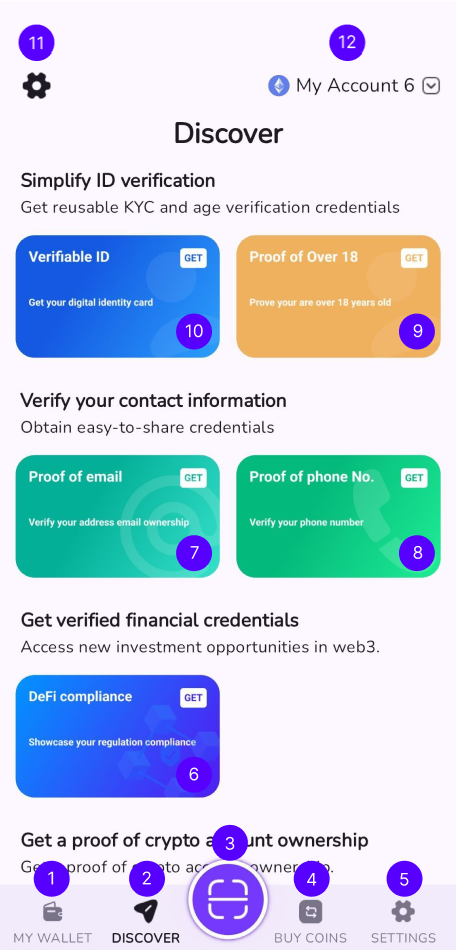
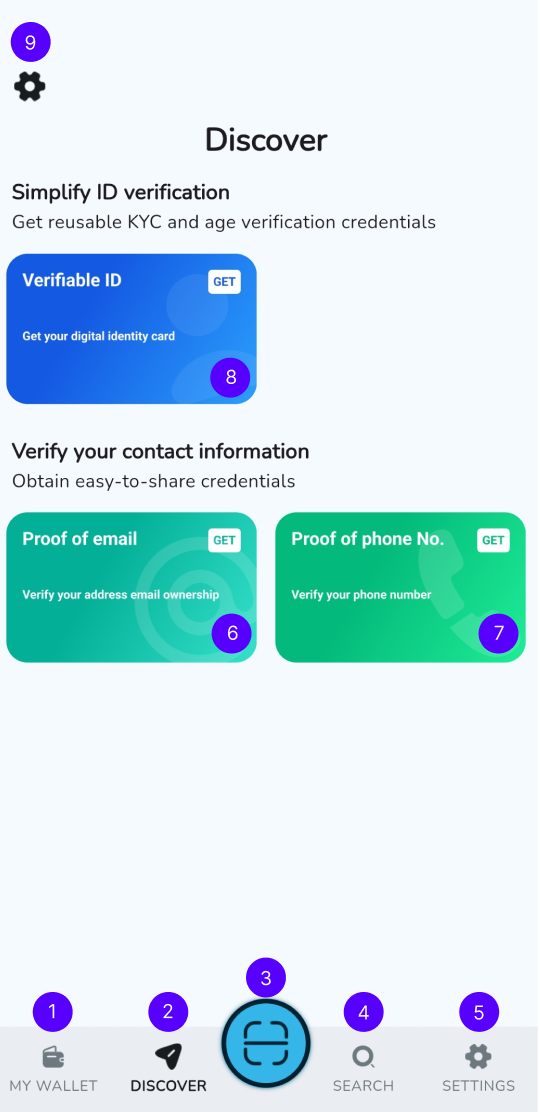
add altme + talo part for screen

diff --git a/src/css/custom.css b/src/css/custom.css
@@ -28,3 +28,146 @@
   --ifm-color-primary-lightest: #4fddbf;
   --docusaurus-highlighted-code-line-bg: rgba(0, 0, 0, 0.3);
 }
+
+/* Custom responsive styles for wallet screens */
+.responsive-container {
+  display: flex;
+  align-items: center;
+  margin-bottom: 20px;
+  /* flex-direction: row-reverse; */
+}
+
+/* DIsplay screen */
+
+.responsive-image-display {
+  flex: 0 0 30%;
+  margin-left: 20px;
+  margin-bottom: 80px;
+}
+
+.responsive-text-display {
+  flex: 0 0 70%;
+  margin-left: 20px;
+}
+
+/* Mobile: 50% image, 50% text */
+@media (max-width: 768px) {
+  .responsive-image-display {
+    flex: 0 0 60%;
+    margin-left: -5px;
+    margin-bottom: 900px;
+  }
+
+  .responsive-text-display {
+    flex: 0 0 40%;
+    margin-left: 10px;
+  }
+}
+
+/* Settings screen */
+
+.responsive-image-setting {
+  flex: 0 0 30%;
+  margin-left: 20px;
+  margin-bottom: -55px;
+}
+
+.responsive-text-setting {
+  flex: 0 0 70%;
+  margin-left: 20px;
+}
+
+/* Mobile: 50% image, 50% text */
+@media (max-width: 768px) {
+  .responsive-image-setting {
+    flex: 0 0 60%;
+    margin-left: -5px;
+    margin-bottom: 1340px;
+  }
+
+  .responsive-text-setting {
+    flex: 0 0 40%;
+    margin-left: 10px;
+  }
+}
+
+/* Wallet screen */
+
+.responsive-image-wallet {
+  flex: 0 0 30%;
+  /* margin-left: 20px; */
+  margin-bottom: 170px;
+}
+
+.responsive-text-wallet {
+  flex: 0 0 70%;
+  margin-left: 20px;
+}
+
+/* Mobile: 50% image, 50% text */
+@media (max-width: 768px) {
+  .responsive-image-wallet {
+    flex: 0 0 60%;
+    margin-left: -5px;
+    margin-bottom: 1600px;
+  }
+
+  .responsive-text-wallet {
+    flex: 0 0 40%;
+    margin-left: 7px;
+  }
+}
+
+/* Talao discover  */
+
+.responsive-image-display-talao {
+  flex: 0 0 30%;
+  margin-left: 20px;
+  margin-bottom: -20px;
+}
+
+.responsive-text-display-talao {
+  flex: 0 0 70%;
+  margin-left: 20px;
+}
+
+/* Mobile: 50% image, 50% text */
+@media (max-width: 768px) {
+  .responsive-image-display-talao {
+    flex: 0 0 60%;
+    margin-left: -5px;
+    margin-bottom: 650px;
+  }
+
+  .responsive-text-display-talao {
+    flex: 0 0 40%;
+    margin-left: 10px;
+  }
+}
+
+/* Talao wallet  */
+
+.responsive-image-wallet-talao {
+  flex: 0 0 30%;
+  margin-left: 20px;
+  margin-bottom: -20px;
+}
+
+.responsive-text-wallet-talao {
+  flex: 0 0 70%;
+  margin-left: 20px;
+}
+
+/* Mobile: 50% image, 50% text */
+@media (max-width: 768px) {
+  .responsive-image-wallet-talao {
+    flex: 0 0 60%;
+    margin-left: -5px;
+    margin-bottom: 750px;
+  }
+
+  .responsive-text-wallet-talao {
+    flex: 0 0 40%;
+    margin-left: 10px;
+  }
+}

diff --git a/sidebars.ts b/sidebars.ts
@@ -22,9 +22,12 @@ const sidebars: SidebarsConfig = {
           type: 'category',
           label: 'Wallet Screens',
           items: [
-            'wallet/wallet-screen/wallet-screen',
-            'wallet/wallet-screen/display-screen',
-            'wallet/wallet-screen/settings-menu-screen',
+            'wallet/wallet-screen/altme-wallet-screen', // add nft + coins
+            'wallet/wallet-screen/altme-display-screen',
+            'wallet/wallet-screen/altme-settings-menu-screen', 
+            'wallet/wallet-screen/talao-wallet-screen',
+            'wallet/wallet-screen/talao-display-screen',
+            'wallet/wallet-screen/talao-settings-menu-screen',
           ],
         },
         'wallet/wallet-profiles',

diff --git a/docs/wallet/wallet-screen/altme-settings-menu-screen.md b/docs/wallet/wallet-screen/altme-settings-menu-screen.md
@@ -1,22 +1,22 @@
-# Settings
+# Altme - Settings
 
 Updated the 14th of October 2024.
 
-<div style={{ display: 'flex', alignItems: 'stretch', marginBottom: '20px' }}>
-  <div style={{ flex: '0 0 30%' }}>
-    <img src="/img/ssi_screen/talao_settings.png" alt="Talao Settings Screen" style={{ width: '100%', marginLeft: '50px', height: 'auto' }} />
+<div class="responsive-container">
+  <div class="responsive-image-setting">
+    <img src="/img/ssi_screen/altme_settings.png" alt="Talao Settings Screen" style={{ width: '100%', height: 'auto' }} />
   </div>
-  <div style={{ flex: '0 0 70%', height: '100%', marginLeft: '150px' }}>
+  <div class="responsive-text-setting">
     <p>This is the Settings menu of the wallet.</p>
     <ol>
       <li>Wallet Profiles: allows you to select one of the embedded ecosystem profiles.</li>
       <li>Wallet Security: allows you to change the PIN code, use biometrics, show the wallet recovery phrase, manage user consent, backup, and restore features.</li>
       <li>Wallet Settings: allows you to change the language and themes.</li>
-      <li>Self-Sovereign Identity: provides access to all DIDs, private keys, and OIDC4VC parameters for advanced users.</li>
+      <li>Blockchain Settings : allows you to manage accounts, connected dApps & Networks</li>
+      <li>Self-Sovereign identity (SSI) : allows you to manage your Decentralized ID, backup or rester credentials</li>
       <li>Developer Mode: allows advanced users to access raw data and protocol requests and responses.</li>
-      <li>Help Center: provides access to support chat, notifications, and email.</li>
+      <li>Help center: access to the help center and FAQs</li>
       <li>About: access the terms and conditions document.</li>
-      <li>Activity Log: displays all events such as issuances and credential presentations.</li>
       <li>Reset: resets the wallet, deleting all credentials and private keys with no option to undo if no backup is available.</li>
     </ol>
     <p>The menu may vary depending on the configuration of the wallet.</p>

diff --git a/docs/wallet/wallet-screen/talao-settings-menu-screen.md b/docs/wallet/wallet-screen/talao-settings-menu-screen.md
@@ -1,0 +1,24 @@
+# Talao - Settings
+
+Updated the 14th of October 2024.
+
+<div class="responsive-container">
+  <div class="responsive-image-setting">
+    <img src="/img/ssi_screen/talao_settings.png" alt="Talao Settings Screen" style={{ width: '100%', height: 'auto' }} />
+  </div>
+  <div class="responsive-text-setting">
+    <p>This is the Settings menu of the wallet.</p>
+    <ol>
+      <li>Wallet Profiles: allows you to select one of the embedded ecosystem profiles.</li>
+      <li>Wallet Security: allows you to change the PIN code, use biometrics, show the wallet recovery phrase, manage user consent, backup, and restore features.</li>
+      <li>Wallet Settings: allows you to change the language and themes.</li>
+      <li>Self-Sovereign Identity: provides access to all DIDs, private keys, and OIDC4VC parameters for advanced users.</li>
+      <li>Developer Mode: allows advanced users to access raw data and protocol requests and responses.</li>
+      <li>Help Center: provides access to support chat, notifications, and email.</li>
+      <li>About: access the terms and conditions document.</li>
+      <li>Activity Log: displays all events such as issuances and credential presentations.</li>
+      <li>Reset: resets the wallet, deleting all credentials and private keys with no option to undo if no backup is available.</li>
+    </ol>
+    <p>The menu may vary depending on the configuration of the wallet.</p>
+  </div>
+</div>

diff --git a/docs/wallet/wallet-screen/talao-wallet-screen.md b/docs/wallet/wallet-screen/talao-wallet-screen.md
@@ -1,0 +1,23 @@
+# Talao - My wallet
+
+Updated the 14th of October 2024.
+
+<div class="responsive-container">
+  <div class="responsive-image-wallet-talao">
+    <img src="/img/ssi_screen/talao_wallet.png" alt="Altme Wallet Main Screen" style={{ width: '100%', height: 'auto' }} />
+  </div>
+  <div class="responsive-text-wallet-talao">
+    <p>This is the main screen of the wallet where all verifiable credentials stored in the wallet are displayed.</p>
+    <ol>
+      <li>My Wallet: to access the main screen of the wallet (this screen) with all verifiable credentials represented as cards.</li>
+      <li>Discover: to access the issuer marketplace of the wallet to get all the issuer links.</li>
+      <li>Scan button.</li>
+      <li>Search: to search any cards from the discover</li>
+      <li>Settings: to access the settings menu.</li>
+      <li>Your contact information</li>
+      <li>Add cards: to access the issuer marketplace.</li>
+      <li>Add cards: to access the issuer marketplace.</li>
+      <li>Settings: to access the settings menu.</li>
+    </ol>
+  </div>
+</div>

diff --git a/docs/wallet/wallet-screen/talao-display-screen.md b/docs/wallet/wallet-screen/talao-display-screen.md
@@ -1,0 +1,24 @@
+# Talao - Discover
+
+Updated the 14th of October 2024.
+
+<div class="responsive-container">
+  <div class="responsive-image-wallet-talao">
+    <img src="/img/ssi_screen/talao_discover.png" alt="Talao Discover Screen" style={{ width: '100%', height: 'auto' }} />
+  </div>
+  <div class="responsive-text-wallet-talao">
+    <p>This is the Discover screen of the wallet to access issuers.</p>
+    <ol>
+      <li>My Wallet: to access the main screen of the wallet with all verifiable credentials represented as cards.</li>
+      <li>Discover: to access the issuer marketplace of the wallet to get all the issuer links.</li>
+      <li>Scan: to open the wallet scanner.</li>
+      <li>Search: to search any cards from the discover</li>
+      <li>Settings: to access the settings menu.</li>
+      <li>Issuer links.</li>
+      <li>Issuer links.</li>
+      <li>Issuer links.</li>
+      <li>Settings: to access the settings menu.</li>
+    </ol>
+    <p>The issuer links depend on the configuration of the wallet.</p>
+  </div>
+</div>

diff --git a/docs/wallet/wallet-screen/altme-wallet-screen.md b/docs/wallet/wallet-screen/altme-wallet-screen.md
@@ -1,12 +1,12 @@
-# My wallet
+# Altme - My wallet
 
 Updated the 14th of October 2024.
 
-<div style={{ display: 'flex', alignItems: 'stretch', marginBottom: '20px' }}>
-  <div style={{ flex: '0 0 30%' }}>
-    <img src="/img/ssi_screen/altme_wallet.png" alt="Altme Wallet Main Screen" style={{ width: '100%', marginLeft: '50px', height: 'auto' }} />
+<div class="responsive-container">
+  <div class="responsive-image-wallet">
+    <img src="/img/ssi_screen/altme_wallet.png" alt="Altme Wallet Main Screen" style={{ width: '100%', height: 'auto' }} />
   </div>
-  <div style={{ flex: '0 0 70%', height: '100%', marginLeft: '150px' }}>
+  <div class="responsive-text-wallet">
     <p>This is the main screen of the wallet where all verifiable credentials stored in the wallet are displayed.</p>
     <ol>
       <li>My Wallet: to access the main screen of the wallet (this screen) with all verifiable credentials represented as cards.</li>

diff --git a/docs/wallet/wallet-screen/altme-display-screen.md b/docs/wallet/wallet-screen/altme-display-screen.md
@@ -1,12 +1,12 @@
-# Discover
+# Altme - Discover
 
 Updated the 14th of October 2024.
 
-<div style={{ display: 'flex', alignItems: 'stretch', marginBottom: '20px' }}>
-  <div style={{ flex: '0 0 30%' }}>
-    <img src="/img/ssi_screen/talao_discover.png" alt="Talao Discover Screen" style={{ width: '100%', marginLeft: '50px', height: 'auto' }} />
+<div class="responsive-container">
+  <div class="responsive-image-display">
+    <img src="/img/ssi_screen/altme_discover.png" alt="Altme Discover Screen" style={{ width: '100%', height: 'auto' }} />
   </div>
-  <div style={{ flex: '0 0 70%', height: '100%', marginLeft: '150px' }}>
+  <div class="responsive-text-display">
     <p>This is the Discover screen of the wallet to access issuers.</p>
     <ol>
       <li>My Wallet: to access the main screen of the wallet with all verifiable credentials represented as cards.</li>
